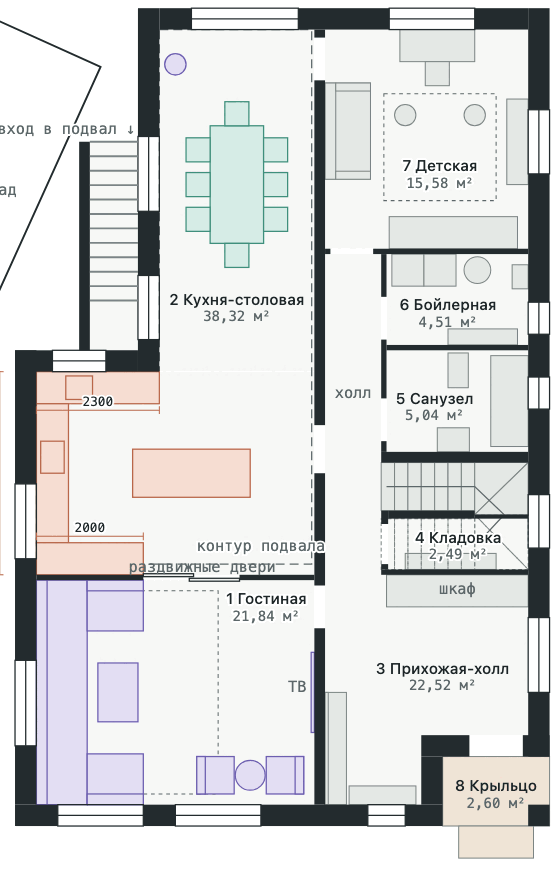
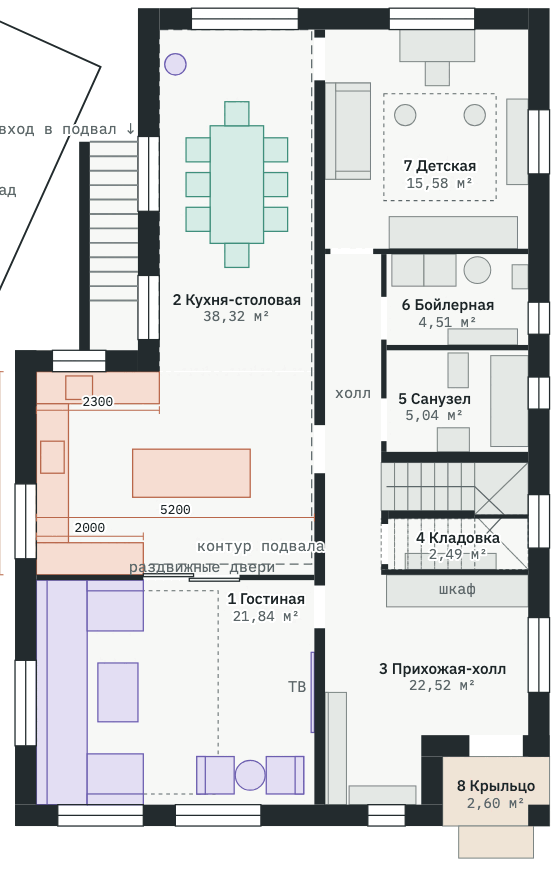
Variant 5: kitchen width 5200 back on the plan

diff --git a/dom/v5-dvuskatnaya.html b/dom/v5-dvuskatnaya.html
@@ -226,7 +226,7 @@ tr.out td{color:var(--muted)}
 <li><b>Стояки.</b> Плита лежит на грунте, поэтому слив кухни, санузла и бойлерной первого этажа уходит прямо вниз, трубы закладывают под плиту до заливки. Мастер-санузел второго этажа стоит над санузлом и бойлерной первого, его стояк проходит там. Унитаз общего санузла стоит у левой стены, его стояк спускается в коробе у левой стены кухни.</li>
 <li><b>Спальня слева спереди</b> на месте кабинета и балкона, 5,2 × 4,25 м, 22,1 м². Балкона больше нет: стена с окном 2 м стоит по фасаду, как на первом этаже, над гостиной обычное перекрытие, гидроизоляция эксплуатируемой кровли не нужна. Вход из коридора в правом заднем углу. Кровать 1,6 × 2,0 м изголовьем к несущей стене, у стены коридора шкаф 2,3 м, у низкой левой стены под окнами в крыше комод, у окна на фасад кресло со столиком. У левой стены потолок 1,5 м, в 1,7 м от неё уже 2,5 м.</li>
 <li><b>План с размерами</b> — отдельная вкладка. На нём этаж без мебели: у каждого помещения внутренние ширина и глубина, по наружным стенам простенки, окна и двери и длина каждой стены, справа таблица размеров помещений. Составные комнаты записаны суммой прямоугольников.</li>
-<li><b>Размеры кухни</b> на плане первого этажа — длины трёх стен, вдоль которых гарнитур стоит буквой П, в мм по чистым стенам без отделки: задняя стена 2300, левая 3800, глухая часть перегородки с гостиной 2000. Вся кухня 5200 × 3800, потолок 2800. В задней стене окно 1000 в 300 от левого угла, в левой окно 1400 в 2100 от задней стены, подоконники на 1050. Мебель нарисована условно: кухонщики расставят её сами после своего замера.</li>
+<li><b>Размеры кухни</b> на плане первого этажа — длины трёх стен, вдоль которых гарнитур стоит буквой П, в мм по чистым стенам без отделки: задняя стена 2300, левая 3800, глухая часть перегородки с гостиной 2000. Отдельной линией подписана ширина кухни поперёк, от левой стены до несущей: 5200. Вся кухня 5200 × 3800, потолок 2800. В задней стене окно 1000 в 300 от левого угла, в левой окно 1400 в 2100 от задней стены, подоконники на 1050. Мебель нарисована условно: кухонщики расставят её сами после своего замера.</li>
 <li><b>Площади</b> посчитаны по модели по внутренним размерам комнат. Лестница с забежными ступенями, 18 подъёмов по 170 мм. Это схема для обсуждения, не рабочий чертёж.</li>
 </ul>
 </div>
@@ -429,7 +429,7 @@ drawPlan(document.getElementById('plan1'),{
  const H=(x1,x2,y)=>{el('line',Object.assign({x1:X(x1),x2:X(x2),y1:Y(y),y2:Y(y)},ln));[x1,x2].forEach(x=>el('line',Object.assign({x1:X(x),x2:X(x),y1:Y(y)-3,y2:Y(y)+3},ln)));T((X(x1)+X(x2))/2,Y(y)-3,String(x2-x1));};
  const V=(y1,y2,px,side)=>{el('line',Object.assign({x1:px,x2:px,y1:Y(y1),y2:Y(y2)},ln));[y1,y2].forEach(y=>el('line',Object.assign({x1:px-3,x2:px+3,y1:Y(y),y2:Y(y)},ln)));T(px+(side<0?-5:5),(Y(y1)+Y(y2))/2+3.5,String(y2-y1),side<0?'end':'start');};
  /* длины трёх стен, вдоль которых кухня стоит буквой П: задняя, левая и глухая часть перегородки за диваном */
- H(-1600,700,7120);H(-1600,400,9480);V(6400,10200,X(-2000)-12,-1);
+ H(-1600,700,7120);H(-1600,400,9480);H(-1600,3600,9130);V(6400,10200,X(-2000)-12,-1);
 })();
 
 (function site(){
